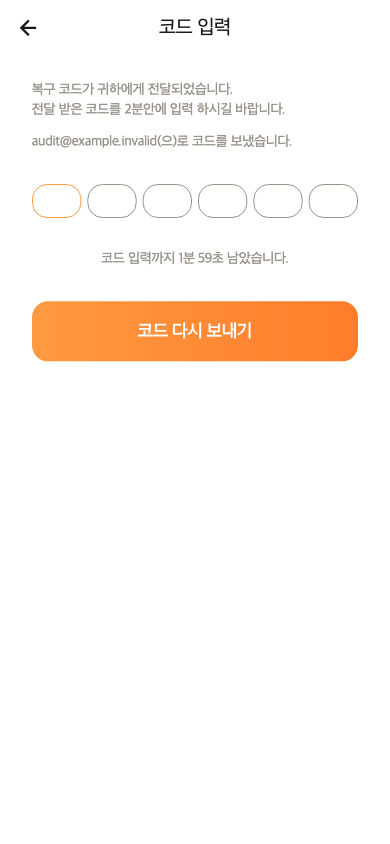
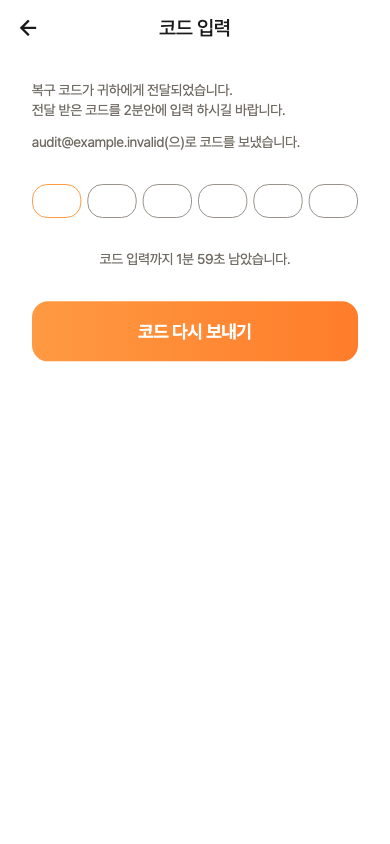
|FIX| 실제 Pretendard 폭에서 드러난 체중 기록 시간 행 넘침 수정 — 감사 F09 후속
F17로 번들 폰트를 등록하자, 시스템 폰트 대체 로딩으로는 보이지 않던 조건이
드러났다: weight-record의 시간 선택 행이 en 320px에서 2.9px 넘친다. 라벨
Text가 무제한 폭을 요구하고 값·아이콘이 고정 폭이라 남는 공간이 없었다.

- 라벨을 Expanded(Spacer 역할 겸함), 값을 Flexible + ellipsis로 전환
- 레이아웃 회귀 테스트 대상에 weight-record 추가(기존 7화면 → 8화면)
- 감사 보고서에 결정 6건 처리 결과와 이 후속 발견을 기록

검증: flutter analyze 무결점, flutter test 434 통과, 프로브 13/13(overflow 0),
backend pytest 64 통과.

Claude-Session: https://claude.ai/code/session_01Snynbz8BcZqbZHXDQU4G4N

diff --git a/lib/src/screens/weight/weight_record_screen.dart b/lib/src/screens/weight/weight_record_screen.dart
@@ -778,6 +778,8 @@ class _WeightRecordScreenState extends ConsumerState<WeightRecordScreen> {
           border: Border.all(color: AppColors.gray300),
           borderRadius: BorderRadius.circular(12),
         ),
+        // 라벨은 남는 폭을 차지하며 줄어들고(Spacer 역할 겸함), 값도 좁은 화면에서
+        // 함께 줄어든다. 320px 영어에서 고정 폭 조합이 넘치던 문제(F09) 대응.
         child: Row(
           children: [
             const Icon(
@@ -786,23 +788,32 @@ class _WeightRecordScreenState extends ConsumerState<WeightRecordScreen> {
               color: AppColors.brandPrimary,
             ),
             const SizedBox(width: 10),
-            Text(
-              l10n.weight_selectTime,
-              style: const TextStyle(
-                fontSize: 14,
-                fontWeight: FontWeight.w500,
-                color: AppColors.mediumGray,
-                letterSpacing: -0.35,
+            Expanded(
+              child: Text(
+                l10n.weight_selectTime,
+                maxLines: 1,
+                overflow: TextOverflow.ellipsis,
+                style: const TextStyle(
+                  fontSize: 14,
+                  fontWeight: FontWeight.w500,
+                  color: AppColors.mediumGray,
+                  letterSpacing: -0.35,
+                ),
               ),
             ),
-            const Spacer(),
-            Text(
-              timeText,
-              style: const TextStyle(
-                fontSize: 15,
-                fontWeight: FontWeight.w600,
-                color: AppColors.nearBlack,
-                letterSpacing: -0.35,
+            const SizedBox(width: 8),
+            Flexible(
+              child: Text(
+                timeText,
+                maxLines: 1,
+                overflow: TextOverflow.ellipsis,
+                textAlign: TextAlign.right,
+                style: const TextStyle(
+                  fontSize: 15,
+                  fontWeight: FontWeight.w600,
+                  color: AppColors.nearBlack,
+                  letterSpacing: -0.35,
+                ),
               ),
             ),
             const SizedBox(width: 4),

diff --git a/test/screens/layout/small_screen_text_scale_test.dart b/test/screens/layout/small_screen_text_scale_test.dart
@@ -220,6 +220,7 @@ final _routes = <String, _Route>{
     extra: {'mode': VisionMode.partSpecific},
   ),
   'email-login': (path: RoutePaths.emailLogin, extra: null),
+  'weight-record': (path: RoutePaths.weightRecord, extra: null),
 };
 
 /// flutter_test 기본 Ahem 폰트는 모든 글리프가 1em 정사각형이라 실제보다 훨씬

diff --git a/docs/audits/2026-09-09/README.md b/docs/audits/2026-09-09/README.md
@@ -16,14 +16,46 @@
 | F08 F09 | 수정 | 인증번호 칸 가용 폭 계산, 7개 화면 고정 높이/폭 제거, 병원 요약 스크롤 |
 | F13 F14 F15 | 수정 | 스플래시 provider.future 1회 대기, 알림 폴링 실패 시 목록 유지, popOrGo |
 | F17(문구) | 수정 | 오전/오후·펫 나이·요일·접근성 라벨 22키 ko/en/zh |
-| F07 | 결정 대기 | 백엔드 User에 gender/phone 없음 — 필드 추가 vs 입력 제거 |
-| F10 | 결정 대기 | Android Apple 로그인 — Service ID 구성 vs 버튼 숨김 |
-| F11 | 결정 대기 | 브랜드색 대비 — 색 변경 vs 텍스트 토큰만 조정 |
-| F12 | 결정 대기 | Firebase 초기화 실패 비치명화·지원 플랫폼 명시 |
-| F16 | 결정 대기 | 호출처 없는 /home/pet/profile 라우트 삭제 여부 |
-| F17(폰트) | 결정 대기 | Pretendard 자산 등록 vs 시스템 폰트 정책 |
+| F07 | 수정 | 성별·전화번호 입력 제거(백엔드 계약에 없음), 이메일 읽기 전용 통일 |
+| F10 | 수정 | Apple 로그인 버튼을 Apple 플랫폼에서만 노출(연동 해제는 전 플랫폼 유지) |
+| F11 | 부분 수정 | 텍스트 토큰 신설·적용(AA 충족). 버튼 채움 대비는 결정 대기 |
+| F12 | 수정 | Firebase 초기화 비치명화, 분석·푸시만 비활성. README 지원 플랫폼 표 |
+| F16 | 수정 | 라우트·화면·전용 테스트 삭제 |
+| F17(폰트) | 수정 | Pretendard v1.3.9 OTF 4종(6.0MB) 번들 + OFL 동봉 |
 
-검증: `flutter analyze` 무결점, `flutter test` 393개 통과, 진단 프로브 13/13 통과(overflow 0). 실기기·실서버 검증은 미실시.
+### 남은 결정 1건
+
+**F11 버튼 채움 대비.** 흰 글씨 ↔ `brandPrimary`(#FF9A42) 2.11:1로, 브랜드 색을
+유지하는 한 흰 라벨로는 큰 글자 기준 3:1조차 달성할 수 없다. 측정값:
+
+| 방안 | 대비 | 영향 |
+|---|---:|---|
+| 현행 유지(흰 글씨 + #FF9A42) | 2.11 | AA 미달 |
+| 라벨을 `nearBlack`으로 | 8.25 | 모든 CTA가 주황 위 검은 글씨로 바뀜 |
+| 채움을 #EF6F00으로 | 3.02 | 큰 글자만 충족, 브랜드 주황이 어두워짐 |
+| 채움을 #BE5900으로 | 4.55 | 본문 기준 충족, 브랜드 주황이 크게 어두워짐 |
+
+시각 정체성에 영향이 커 사용자 결정이 필요하다. 텍스트 토큰
+(`textSecondary` #706C64, `brandTextOnLight` #AE5100)은 이미 AA를 만족하며
+`test/theme/color_contrast_test.dart`가 회귀를 막는다.
+
+검증(2026-09-11 재실행): `flutter analyze` 무결점, `flutter test` 434개 통과
+(기준 297 → 393 → 434), 진단 프로브 13/13 통과, backend pytest 64개 통과.
+실기기·실서버 검증은 미실시.
+
+번들 Pretendard의 실제 글자 폭으로 재측정하자 **새 overflow 1건**이 드러났다
+— weight-record의 시간 선택 행이 en 320px에서 2.9px 넘침. 라벨/값을
+Expanded+Flexible로 바꿔 수정하고, 레이아웃 회귀 테스트 대상에
+weight-record를 추가했다(시스템 폰트 대체 로딩으로는 잡히지 않던 조건).
+
+### 후속 변경 메모
+
+- 보호 라우트 25 → 24 (F16으로 `/home/pet/profile` 제거)
+- `country_picker` 의존성 제거 (F07로 국가 선택기가 데드 코드화)
+- `AnalyticsService`는 Firebase 없이 no-op으로 동작하며, 리뷰 유도 실패가
+  저장 흐름을 깨지 않도록 try/catch를 추가했다
+- 레이아웃 회귀 테스트는 시스템 폰트 대체 대신 번들 Pretendard를 로드한다 —
+  실기기 글자 폭으로 재는 쪽이 오검출·누락이 모두 적다
 
 ## 검토 범위와 증거
 
